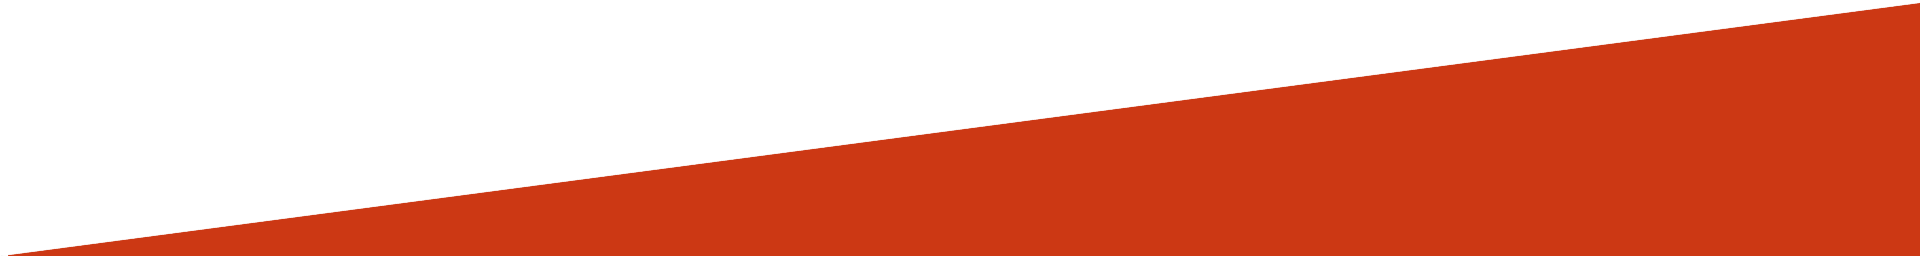
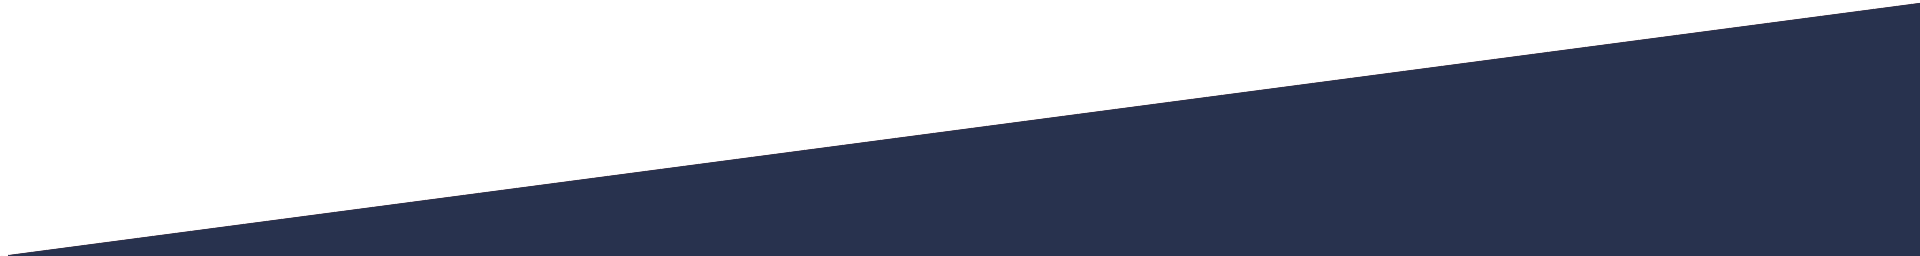
styling frontpage

diff --git a/index.html b/index.html
@@ -34,7 +34,7 @@
             <a class="nav-link js-scroll-trigger" href="#portfolio">Nasze realizacje</a>
           </li>
           <li class="nav-item">
-            <a class="nav-link js-scroll-trigger" href="#contact">Kontact</a>
+            <a class="nav-link js-scroll-trigger" href="#contact">Kontakt</a>
             <li class="nav-item">
               <a class="nav-link js-scroll-trigger" href="gallery-page.html">Gallery Page</a>
             </li>
@@ -43,12 +43,12 @@
     </div>
   </nav>
   <!-- // Navbar -->
-
+<div id="home">
   <!-- Slider - small devices -->
-  <header class="d-block d-xl-none slider_small text-center d-flex ">
+  <header  class="d-block d-xl-none slider_small text-center d-flex ">
     <div class="container my-auto">
       <div class="row">
-        <div class="col-lg-10 mx-auto">
+        <div  class="col-lg-10 mx-auto">
           <h1 class="slider_small__header">
             Balkony podwieszane
           </h1>
@@ -63,7 +63,7 @@
   </header>
 
   <!-- Slider - big devices -->
-  <div class="container-fluid d-none d-xl-block">
+  <div  class="container-fluid d-none d-xl-block">
     <div class="row">
       <div id="slider" class="carousel slide   " data-ride="carousel">
         <div class="carousel-inner ">
@@ -101,12 +101,12 @@
       </div>
     </div>
   </div>
-
+</div>
 
 
   <!-- About Us section -->
 
-  <div class="container about_us ">
+  <div id="about" class="container about_us ">
     <div class="row">
       <h2 class="about_us__title">O nas
         <span>
@@ -138,7 +138,7 @@
   </div>
   <!-- d-none d-xl-block d-lg-block -->
 
-  <div class="container portfolio_section">
+  <div id="portfolio" class="container portfolio_section">
     <div class="row">
       <h2 class="portfolio_section__title">Nasze realizacje
         <span>
@@ -226,51 +226,8 @@
 
   </div>
 
-  <!-- Portfolio section -->
-  <section>
-    <div class="container-fluid">
-      <div class="row">
-        <img src="images/clouds.jpg" alt=""> </div>
-    </div>
-
-    <div class="container-fluid catalog_section text-center col-xs-12  ">
-
-
-      <div class="row col-xs-12 text-center">
-        <h1 class="text-center catalog_section__title">Pobierz portfolio</h1>
-      </div>
-      <div class="row">
-        <h2 class='catalog_section__subtitle'>Więcej realizacji, znajdziesz w naszym firmowym katalogu.</h2>
-      </div>
-
-      <a href="katalog.pdf" class="btn btn-primary btn-xl js-scroll-trigger" href="#about"> Katalog(.pdf)</a>
-    </div>
-
-
-    <div class="container-fluid">
-      <div class="row">
-        <img src="images/clouds_bottom.png" alt=""> </div>
-    </div>
-  </section>
-
-  <!-- Our vision Section -->
-  <section>
-    <div class="container our_vision">
-      <div class="row">
-        <h2 class="our_vision__header">Wizja firmy
-          <span>
-            <img class="about_us__divider" src="images/separator.png" alt="">
-          </span>
-        </h2>
-        <p class="our_vision__content">Naszą ideą jest całościowy nadzór od poziomu projektu, finansowania, pomocy prawnej i architektonicznej aż do finalnej
-          produkcji i montażu balkonów. Ten sposób prowadzenia inwestycji pozwala naszym Klientom na przeniesienie na nas
-          odpowiedzialności za prowadzenie danej realizacji , w oparciu o naszą wiedzę i kompetencję.</p>
-      </div>
-    </div>
-  </section>
-
-  <!-- Features Section -->
-  <section class='pb-0'>
+   <!-- Features Section -->
+   <section class='pb-0'>
     <div class="container-fluid">
       <div class="row">
         <img src="images/features__divider-top.png" alt=""> </div>
@@ -320,9 +277,54 @@
     </div>
   </section>
 
+
+  <!-- Portfolio section -->
+  <section>
+    <div class="container-fluid">
+      <div class="row">
+        <img src="images/clouds.jpg" alt=""> </div>
+    </div>
+
+    <div class="container-fluid catalog_section text-center col-xs-12  ">
+
+
+      <div class="row col-xs-12 text-center">
+        <h1 class="text-center catalog_section__title">Pobierz portfolio</h1>
+      </div>
+      <div class="row">
+        <h2 class='catalog_section__subtitle'>Więcej realizacji, znajdziesz w naszym firmowym katalogu.</h2>
+      </div>
+
+      <a href="katalog.pdf" class="btn btn-primary btn-xl js-scroll-trigger" href="#about"> Katalog(.pdf)</a>
+    </div>
+
+
+    <div class="container-fluid">
+      <div class="row">
+        <img src="images/clouds_bottom.png" alt=""> </div>
+    </div>
+  </section>
+
+  <!-- Our vision Section -->
+  <section>
+    <div class="container our_vision">
+      <div class="row">
+        <h2 class="our_vision__header">Wizja firmy
+          <span>
+            <img class="about_us__divider" src="images/separator.png" alt="">
+          </span>
+        </h2>
+        <p class="our_vision__content">Naszą ideą jest całościowy nadzór od poziomu projektu, finansowania, pomocy prawnej i architektonicznej aż do finalnej
+          produkcji i montażu balkonów. Ten sposób prowadzenia inwestycji pozwala naszym Klientom na przeniesienie na nas
+          odpowiedzialności za prowadzenie danej realizacji , w oparciu o naszą wiedzę i kompetencję.</p>
+      </div>
+    </div>
+  </section>
+
+ 
   <!-- Contact section -->
   <footer>
-    <div class="container-fluid contact" id="#contact">
+    <div class="container-fluid contact" id="contact">
       <div class="row">
         <h1 class="contact__title">Zapraszamy do kontaktu
           <span>

diff --git a/style.css b/style.css
@@ -417,7 +417,7 @@ button.close {
 
 .features {
   padding: 3rem 0 1rem 0;
-  background-color: #CC3814;
+  background-color: #28324E;
   color: white;
 }
 
@@ -445,7 +445,7 @@ button.close {
 }
 
 .features__divider-bottom {
-  background-color: #28324E;
+  background-color: #fff;
 }
 
 .contact {
